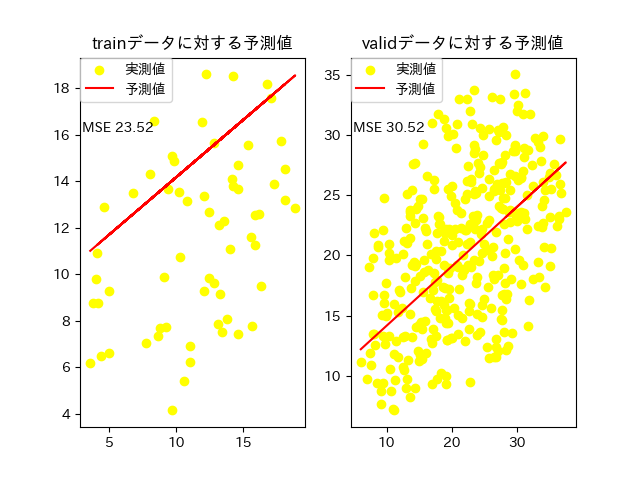
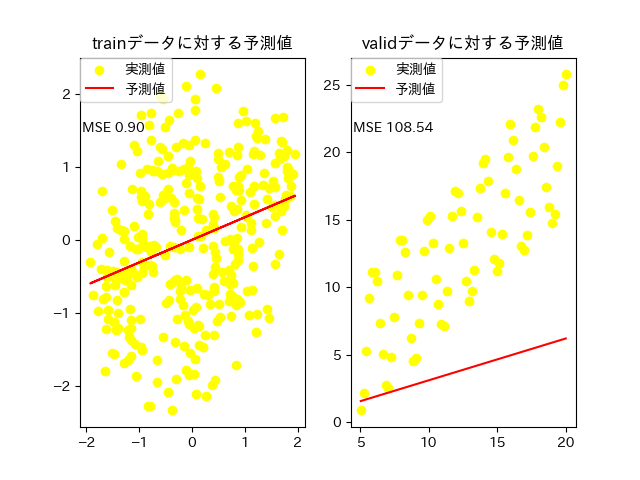
わからん笑

diff --git a/sec01/Q2/pred.py b/sec01/Q2/pred.py
@@ -1,10 +1,14 @@
 import matplotlib.pyplot as plt
 import seaborn as sns
 import japanize_matplotlib
+import numpy as np
 
 from sklearn.metrics import mean_squared_error
 from sklearn.linear_model import LinearRegression, Ridge, Lasso
-from sklearn.model_selection import RandomizedSearchCV
+from sklearn.model_selection import RandomizedSearchCV, GridSearchCV
+from sklearn.metrics import r2_score
+
+import lightgbm as lgb
 
 class Pred:
     def __init__(self) -> None:
@@ -13,7 +17,9 @@ class Pred:
             "valid": None,
             }
         
-        self.model = None
+        # self.model = lgb.LGBMRegressor(metric='rmse')
+        self.model = Ridge(alpha=10, max_iter=10000)
+        
         
     # ハイパーパラメータのチューニング
     def tuning(self, df):
@@ -25,21 +31,24 @@ class Pred:
         """
         X = df["x"].to_numpy().reshape(-1, 1)
         y = df["y"].to_numpy().reshape(-1, 1)
+        
+        # scikit-learn用のチューニング工程
         param_dic = {
-          "alpha" : [0.1, 1.0, 5.0],
+          "alpha" : [0.01, 0.1, 0.2, 0.3, 0.4, 1, 1.5, 3, 5, 10, 20, 30, 100, 1000],
           "solver" : ["auto", "svd", "cholesky"],
-          "max_iter" : [1000, 2000]
+          "max_iter" : [1000, 2000, 3000]
         }
         model = Ridge()
-        clf = RandomizedSearchCV(model, param_dic, random_state=0)
+        clf = RandomizedSearchCV(model, param_dic, random_state=42, cv=5, n_iter=1000)
+        # clf = GridSearchCV(model, param_dic, cv=5)
         clf.fit(X, y)
         print(f'ベストパラメータ {clf.best_params_}')
         print(f'ベストスコア {clf.best_score_}')
-        
         self.model = clf
+        
 
     def pred_process(self, key, X, y, ax):
-      """与えられたx, yに対する予測をし、平均二乗誤差を求め、回帰直線を描画
+      """与えられたx, yに対する予測をし、決定係数と平均二乗誤差を求め、回帰直線を描画
       Args: 
         key: train or valid
         X       : X_train or X_valid
@@ -51,9 +60,21 @@ class Pred:
         None
       """
       print(f'-------{key}データに対する予測-------')
-      y_pred = self.model.predict(X)
-      print(f'平均二乗誤差 {mean_squared_error(y, y_pred)}')
+      if key == "train":
+        self.model.fit(X, y)
         
+      y_pred = self.model.predict(X)
+      
+      y_mean = y.mean() 
+      zenhendou = np.sum((y - y_mean)**2)
+      kaikihendou = np.sum((y_pred - y_mean)**2)
+      zansahendou = np.sum((y - y_pred)**2)
+      print(f'全変動平方和: {(zenhendou)} ')
+      print(f'回帰変動平方和: {(kaikihendou)} ')
+      print(f'残差変動平方和: {(zansahendou)} ')
+      print(f'決定係数: {r2_score(y, y_pred)*100}% ')
+      print(f'平均二乗誤差: {mean_squared_error(y, y_pred)}')
+      
       ax.text(0.01, 0.80, f'MSE {mean_squared_error(y, y_pred):.2f}', transform=ax.transAxes)
       ax.scatter(X, y, label="実測値", c="yellow")
       ax.plot(X, y_pred, label="予測値", c="red")
@@ -63,6 +84,7 @@ class Pred:
     def show_result(self, df_train, df_valid):
         """学習データと検証データに対する予測結果を表示
         """
+              
         self.plot_pred_dict["train"] = df_train
         self.plot_pred_dict["valid"] = df_valid
         fig = plt.figure()

diff --git a/sec01/Q2/main.py b/sec01/Q2/main.py
@@ -10,6 +10,7 @@ import japanize_matplotlib
 from sklearn.metrics import  mean_squared_error
 from sklearn.preprocessing import MinMaxScaler
 from sklearn.linear_model import LinearRegression, Ridge, Lasso
+from sklearn.metrics import r2_score
 
 # 独自モジュールのインポート
 from draw_data import DrawData
@@ -21,37 +22,34 @@ from data_preprocessor import DataPreprocessor
 if __name__ == "__main__":
   """データの読み込み"""
   df = pl.read_csv('jkrt.csv')
-  # xが5より大きいデータはTrueとし、そうでないデータはFalseとするy_over_5列を追加
-  df = df.with_columns(pl.Series(name="y_over_5", values=map(lambda x : True if x >= 5 else False, df["x"])))
   
-  # """元データの可視化"""
+  """元データの可視化"""
   dd = DrawData()
   dd.show_null(df) # 欠損値の確認
   # 前処理前の学習データと検証データを用意
-  df_train = df.filter(pl.col("y_over_5") == False)
-  df_valid = df.filter(pl.col("y_over_5") == True)
+  df_train = df.filter((pl.col('x') > 0) & (pl.col('x') < 5))
+  df_valid = df.filter(pl.col("x") > 5)
   dd.draw_pair_plot(df, df_train, df_valid, original=True) # 学習データ、検証データのヒストグラムと散布図のペアプロットを描画
-
-  """前処理"""
+  
+  """学習データに対して前処理"""
   dp = DataPreprocessor()
-  # データの水増し
-  noise_df = dp.make_noise(df)  
-  # マハラノビス距離を求め、ハズレ値を除外
+  # ノイズデータを加えてデータの水増し
+  noise_df = dp.make_noise(df_train)  
+  # # マハラノビス距離を求め、ハズレ値を除外
   threshold = 2 # ハズレ値のしきい値
   mahala_df = dp.mahala(noise_df, threshold)
-  # Xとyを標準化
+  # # Xとyを標準化
   scaled_df = dp.scaling(mahala_df)
-  machining_df = scaled_df
-  
+  df_train = scaled_df
+  print(df_train.shape)
   """加工後データの可視化"""
   # 回帰のための前処理後の学習データと検証データを用意
-  df_train = machining_df.filter(pl.col("y_over_5") == False)
-  df_valid = machining_df.filter(pl.col("y_over_5") == True)
-  # print(df_train.shape, df_valid.shape)
+  machining_df = pl.concat([df_train, df_valid])
+  print(df_train.shape, df_valid.shape)
   dd.show_null(machining_df) # 欠損値の確認
   dd.draw_pair_plot(machining_df, df_train, df_valid, original=False) # 学習データ、検証データのヒストグラムと散布図のペアプロットを描画
   
   """データの予測"""
   pr = Pred()
-  pr.tuning(machining_df)
+  pr.tuning(df)
   pr.show_result(df_train=df_train, df_valid=df_valid)

diff --git a/sec01/Q2/data_preprocessor.py b/sec01/Q2/data_preprocessor.py
@@ -11,7 +11,6 @@ from sklearn.preprocessing import StandardScaler
 class DataPreprocessor:
     def __init__(self) -> None:
         self.ss = StandardScaler()
-
     
     def mahala(self, df, threshold):
         """① 外れ値の除去(xとyには相関関係が存在するためマハラノビス距離を使用)
@@ -68,26 +67,24 @@ class DataPreprocessor:
         # ノイズデータフレーム
         noise_df = df
 
-        for i in range(5):
+        for i in range(7): # 学習データを80% テストデータを20%の配分にしたい
 
-            X_mean = df["x"].mean()
-            y_mean = df["y"].mean()
-            X_std = df["x"].std(ddof=0) # x列の母集団の標本標準偏差
-            y_std = df["y"].std(ddof=0) # y列の母集団の標本標準偏差
-            X_noise = df["x"] + np.random.normal(X_mean, X_std, df["x"].shape)
-            y_noise = df["x"] + np.random.normal(y_mean, y_std, df["y"].shape)
+            mean = 0
+            std = 1
+            X_plus_noise = df["x"] + np.random.normal(mean, std, df["x"].shape)
+            X_minus_noise = df["x"] - np.random.normal(mean, std, df["x"].shape)
+            y_plus_noise = df["y"] + np.random.normal(mean, std, df["y"].shape)
+            y_minus_noise = df["y"] - np.random.normal(mean, std, df["y"].shape)
             
+            X_noise = pl.concat([X_plus_noise, X_minus_noise])
+            y_noise = pl.concat([y_minus_noise, y_plus_noise])
             
             # 生成したノイズを一時的に格納するデータフレーム
             tmp_df = pl.DataFrame({
                 "x": y_noise,
                 "y": X_noise
             })
-            
-            tmp_df = tmp_df.with_columns(pl.Series(name="y_over_5", values=map(lambda x : True if x >= 5 else False, df["x"])))
-            
-            # print(tmp_df.shape) # (100, 2)
-            
+                        
             # # 元のデータフレームとノイズデータフレームを結合
             noise_df = pl.concat([noise_df, tmp_df])
                 

diff --git a/sec01/Q2/tmp.py b/sec01/Q2/tmp.py
@@ -1,0 +1,11 @@
+import polars as pl
+
+# 例として、2つのSeriesを作成する
+series1 = pl.Series("A", [1, 2, 3])
+series2 = pl.Series("B", [4, 5, 6])
+
+# Seriesを縦方向に結合する
+concatenated_series = pl.concat([series1, series2])
+
+# 結果を表示する
+print(concatenated_series)

diff --git a/sec01/Q2/README.md b/sec01/Q2/README.md
@@ -15,36 +15,52 @@ df_vali = df.filter(pl.col('x') >= 5)
 
 ## 評価
 ### 前処理なし(元データ)   
+#### モデル
+```
+Ridge回帰  
+    -------trainデータに対する予測-------  
+    全変動平方和: 344.6729785444128   
+    回帰変動平方和: 47.25383917662981   
+    残差変動平方和: 287.3509898510406   
+    決定係数: 16.630833358462993 %  
+    平均二乗誤差: 11.972957910460025  
+    -------validデータに対する予測-------  
+    全変動平方和: 2424.5721406761804   
+    回帰変動平方和: 1444.4860878265144   
+    残差変動平方和: 909.5161778199514   
+    決定係数: 62.48755965799806 %   
+    平均二乗誤差: 12.126882370932686  
+``` 
+
 ***
-![元データを様々な形で可視化](original_graphs.png)  
-![学習データと検証データの散布図](image-5.png)  
+![元データを様々な形で可視化](original_graphs.png)
+![元データにおける学習データと検証データの散布図](image-2.png)
 **ペアプロット**  
 ***
 ![元データのジョインプロット](original_full_join_plot.png)  
 ![学習データのジョインプロット](original_train_join_plot.png)  
 ![検証データのジョインプロット](original_valid_join_plot.png)  
 ### 前処理あり 
-***
-**Xのみ標準化**  
-***
-![alt text](image-1.png)
 
-**Xとyの標準化**  
-***
-![alt text](image.png)
+データの水増し、マハラノビス距離ではずれ値を除外、標準化
+    #### モデル  
+    
+    ```
+    Ridge回帰   
 
-**マハラノビス距離が1.3以上のデータを排除** 
-*** 
-![alt text](image-3.png)
+    -------trainデータに対する予測-------    
+    全変動平方和: 333.0   
+    回帰変動平方和: 31.96608631499504   
+    残差変動平方和: 301.031993799941   
+    決定係数: 9.600001861879582 %   
+    平均二乗誤差: 0.9039999813812042  
+    -------validデータに対する予測-------  
+    全変動平方和: 2424.5721406761804   
+    回帰変動平方和: 6629.990441450026   
+    残差変動平方和: 8140.7180787350535   
+    決定係数: -235.75895483418026 %   
+    平均二乗誤差: 108.54290771646738    
 
-**ノイズを1000個追加した時**  
-***
-![alt text](image-4.png)
-
-**マハラノビス距離**  
-***
-![マハラノビス距離 ](mahala_graph.png) 
-
-**ノイズを500個追加、マハラノビス距離ではずれ値(マハラノビス距離が2以上をはずれ値とする)を除去、Xとyを標準化**  
-***
-![alt text](image-2.png)
+    
+    ![元データにおける学習データと検証データの散布図](image.png)
+    ```
